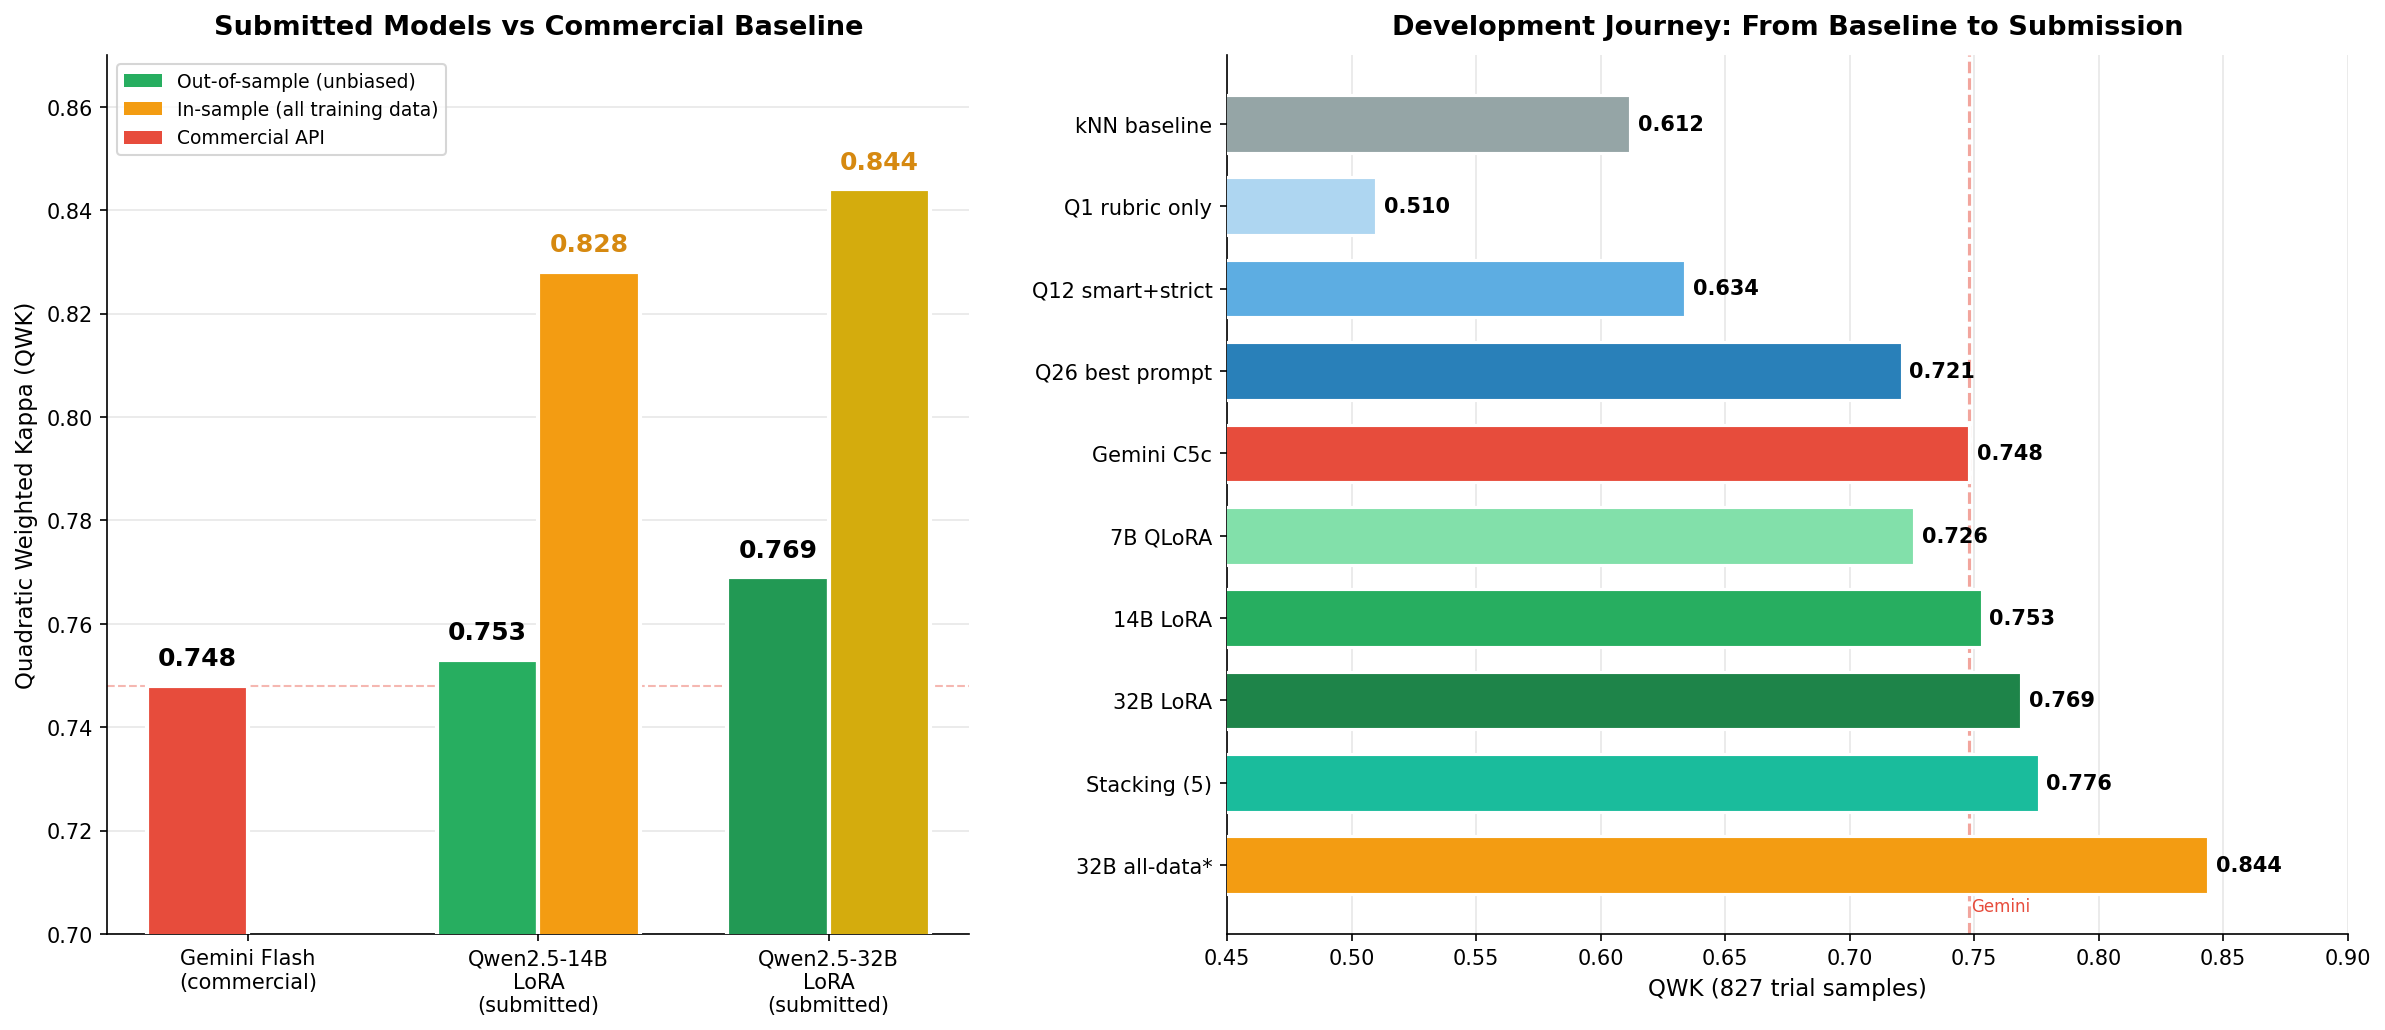
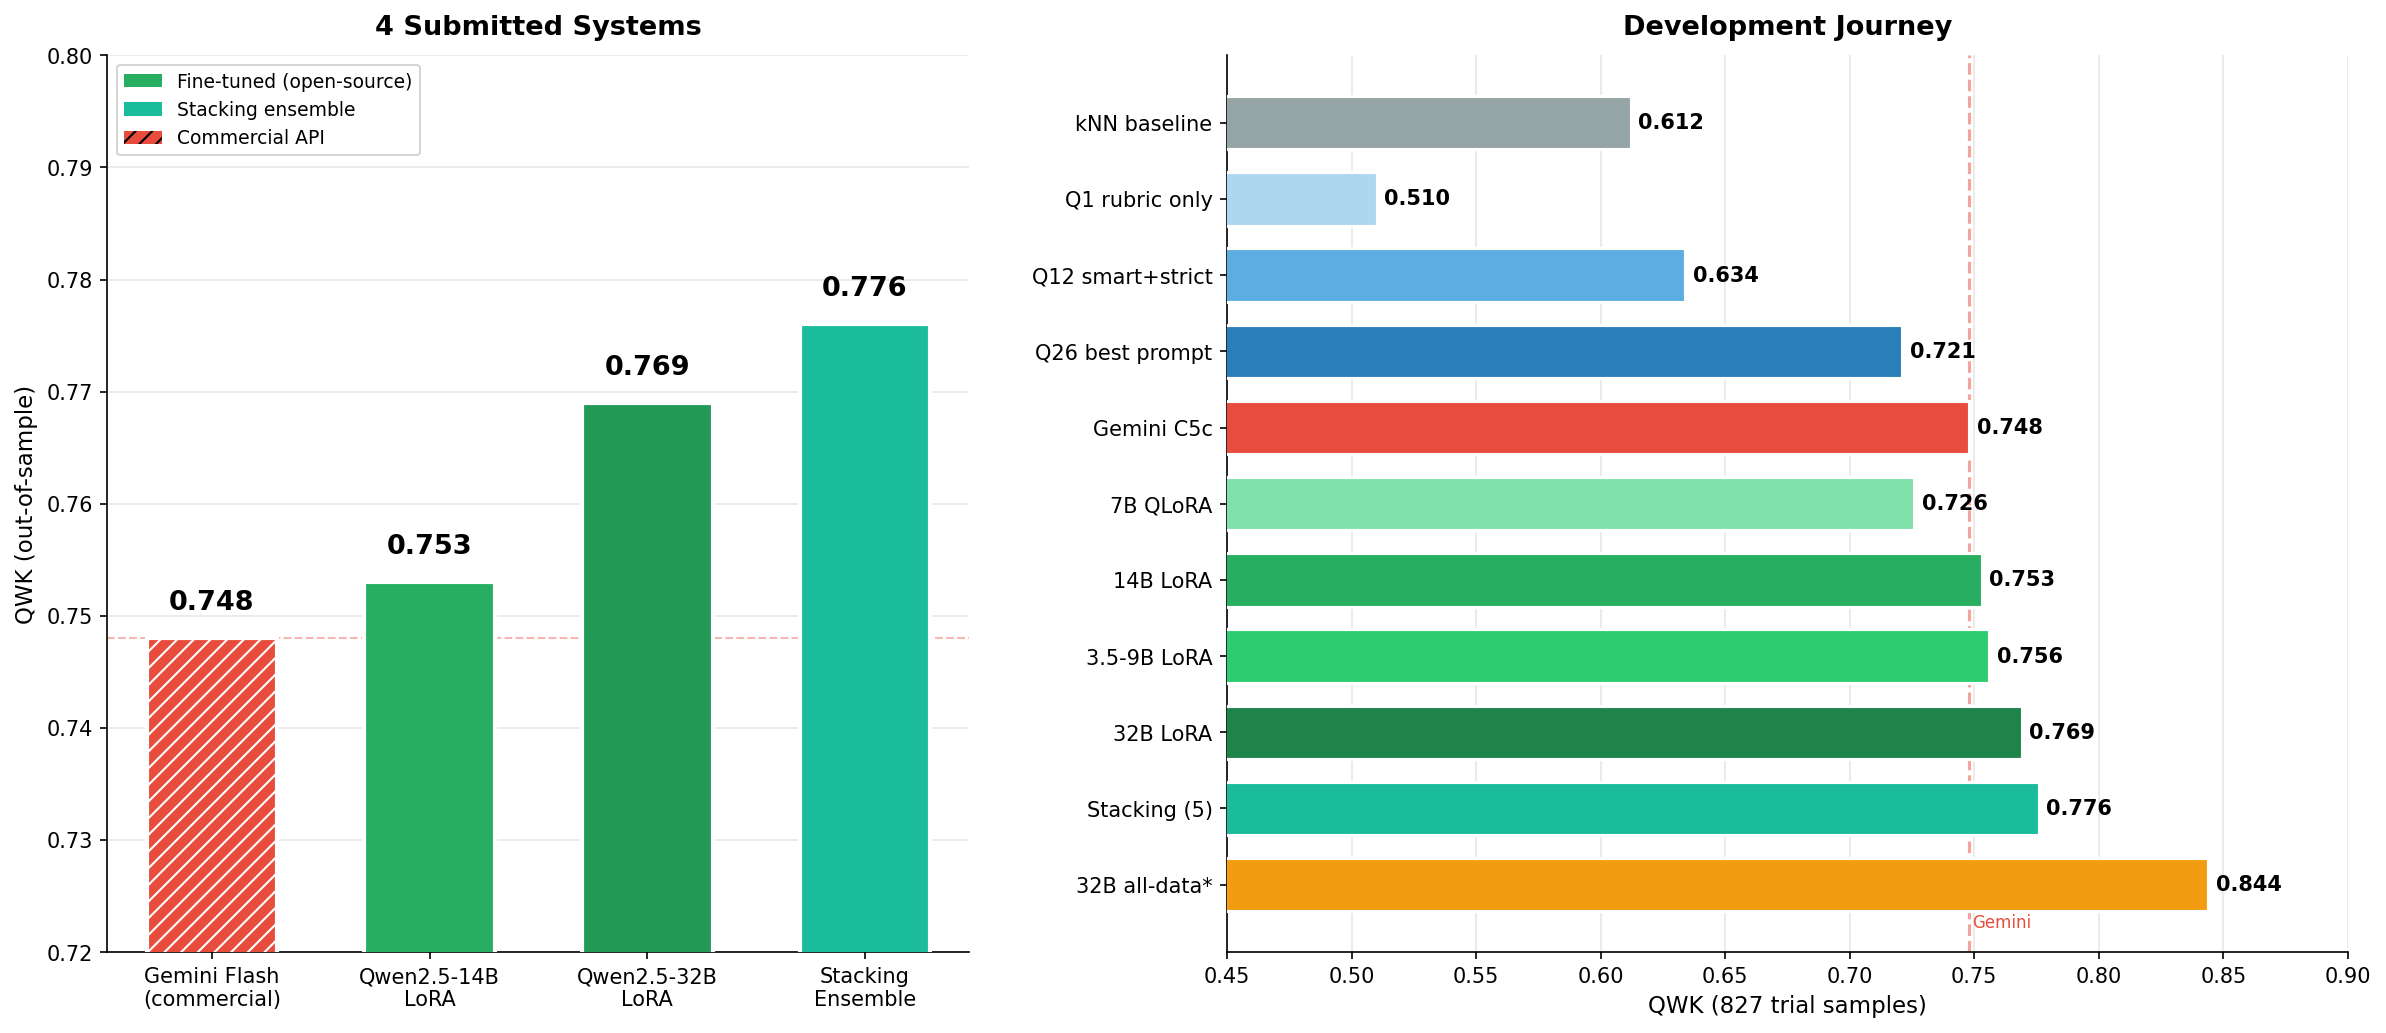
Update README + diagrams: add ensemble submissions, Qwen3.5-9B, 16 total files
- Results comparison chart: added Qwen3.5-9B (0.756) and ensemble (0.776)
- Submission results: updated left panel to show 4 submitted systems
- Development journey: added 3.5-9B and stacking to the progression
- Test submission table: added Stacking Ensemble row
- Updated counts: 16 files (4 models x 4 tracks)

diff --git a/README.md b/README.md
@@ -6,7 +6,7 @@ on the ALICE-LP-1.0 dataset.
 
 **Authors:** Jonas Gwozdz, Andreas Both — HTWK Leipzig / WSE Research
 
-**Status:** Test data scored and submitted to CodaBench (all 4 tracks). Leaderboards on April 3.
+**Status:** 16 submissions ready (4 models x 4 tracks). Leaderboards on April 3.
 
 ## Results Overview
 
@@ -56,8 +56,9 @@ Scored 5,094 test samples (2,008 unseen answers + 3,086 unseen questions) with t
 | 32B LoRA | 2,008 ✅ | 2,008 ✅ | 3,086 ✅ | 3,086 ✅ |
 | 14B LoRA | 2,008 ✅ | 2,008 ✅ | 3,086 ✅ | 3,086 ✅ |
 | Gemini C5c | 2,008 ✅ | 2,008 ✅ | 3,086 ✅ | 3,086 ✅ |
+| Stacking Ensemble | 2,008 ✅ | 2,008 ✅ | 3,086 ✅ | 3,086 ✅ |
 
-0 errors across all submissions (12 files: 3 models × 4 tracks, all validated). Results on [CodaBench](https://www.codabench.org/competitions/14622/) after April 3.
+0 errors across all submissions (16 files: 4 models × 4 tracks, all validated). Results on [CodaBench](https://www.codabench.org/competitions/14622/) after April 3.
 
 ## Repository Structure
 
